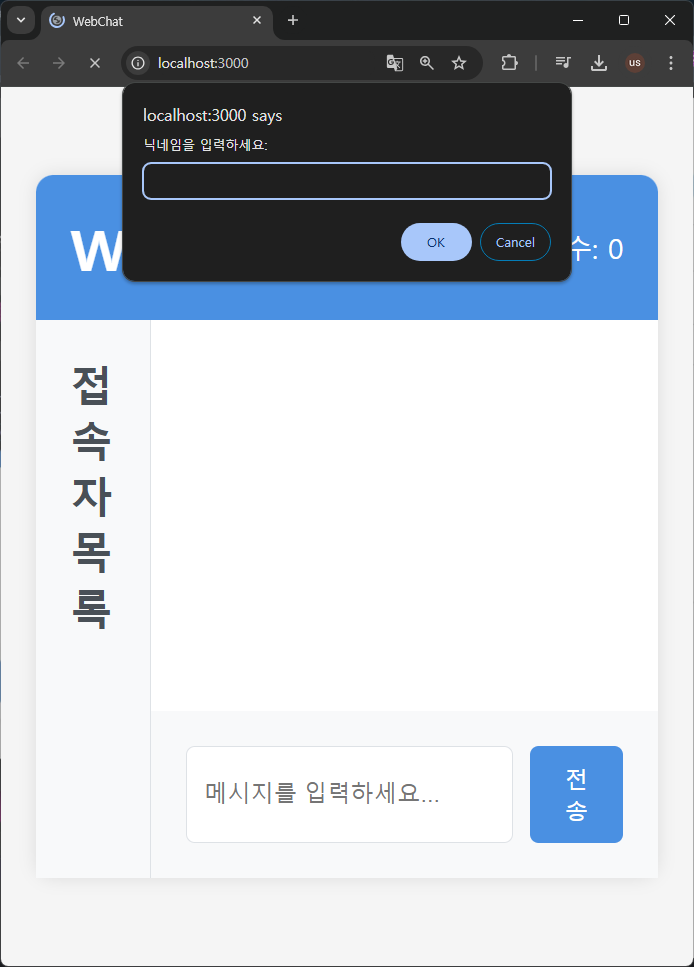
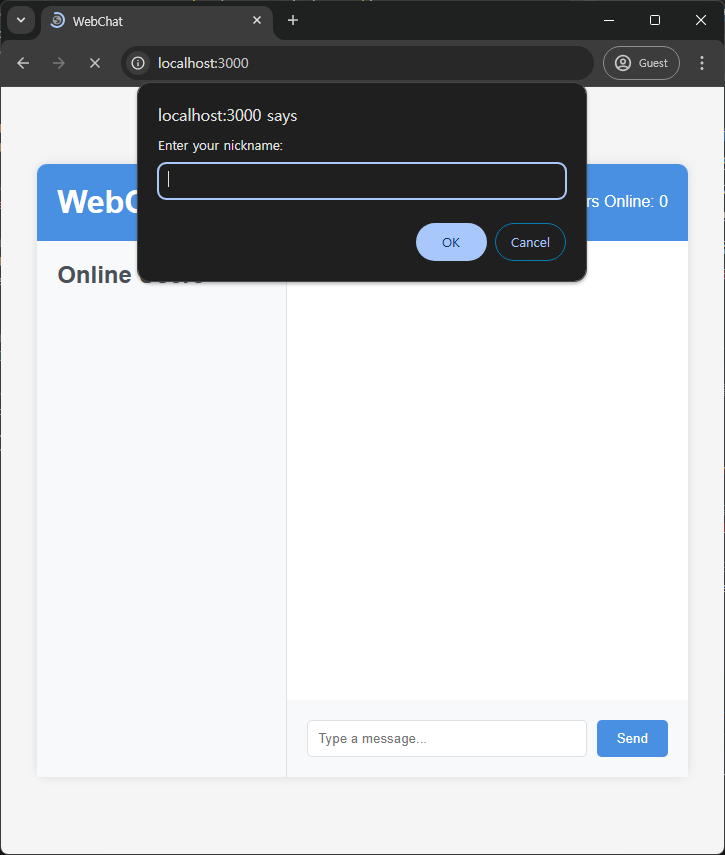
Refactor project files for internationalization: update comments and text in English, enhance .gitignore for clarity, and improve README.md with translated project details and features. Update main.eta layout for user interface consistency.

diff --git a/public/js/main.js b/public/js/main.js
@@ -1,24 +1,24 @@
 document.addEventListener('DOMContentLoaded', () => {
-    // Socket.IO 연결
+    // Socket.IO connection
     const socket = io();
 
-    // DOM 요소
+    // DOM elements
     const messageArea = document.getElementById('messageArea');
     const messageInput = document.getElementById('messageInput');
     const sendButton = document.getElementById('sendButton');
     const usersList = document.getElementById('usersList');
     const userCount = document.getElementById('userCount');
 
-    // 사용자 이름 입력
+    // Get username
     let username = null;
     while (!username) {
-        username = prompt('닉네임을 입력하세요:');
+        username = prompt('Enter your nickname:');
     }
 
-    // 서버에 접속 알림
+    // Notify server of user join
     socket.emit('user join', username);
 
-    // 메시지 전송 함수
+    // Message send function
     function sendMessage() {
         const message = messageInput.value.trim();
         if (message) {
@@ -31,7 +31,7 @@ document.addEventListener('DOMContentLoaded', () => {
         }
     }
 
-    // 이벤트 리스너
+    // Event listeners
     sendButton.addEventListener('click', sendMessage);
     messageInput.addEventListener('keypress', (e) => {
         if (e.key === 'Enter') {
@@ -39,7 +39,7 @@ document.addEventListener('DOMContentLoaded', () => {
         }
     });
 
-    // 메시지 수신 처리
+    // Message receive handler
     socket.on('chat message', (data) => {
         const messageElement = document.createElement('div');
         messageElement.className = `message ${data.username === username ? 'sent' : 'received'}`;
@@ -54,7 +54,7 @@ document.addEventListener('DOMContentLoaded', () => {
         messageArea.scrollTop = messageArea.scrollHeight;
     });
 
-    // 사용자 목록 업데이트
+    // Update user list
     socket.on('users update', (users) => {
         usersList.innerHTML = '';
         users.forEach(user => {
@@ -65,7 +65,7 @@ document.addEventListener('DOMContentLoaded', () => {
         userCount.textContent = users.length;
     });
 
-    // 시스템 메시지 처리
+    // System message handler
     socket.on('system message', (message) => {
         const messageElement = document.createElement('div');
         messageElement.className = 'message system';

diff --git a/server/socket.js b/server/socket.js
@@ -4,28 +4,28 @@ function initializeSocket(io) {
     io.on('connection', (socket) => {
         let username = null;
 
-        // 사용자 입장
+        // User join
         socket.on('user join', (name) => {
             username = name;
             users.add(username);
             
-            // 시스템 메시지 전송
-            io.emit('system message', `${username}님이 입장하셨습니다.`);
+            // Send system message
+            io.emit('system message', `${username} has joined the chat.`);
             
-            // 사용자 목록 업데이트
+            // Update user list
             io.emit('users update', Array.from(users));
         });
 
-        // 채팅 메시지 처리
+        // Handle chat message
         socket.on('chat message', (data) => {
             io.emit('chat message', data);
         });
 
-        // 연결 종료 처리
+        // Handle disconnection
         socket.on('disconnect', () => {
             if (username) {
                 users.delete(username);
-                io.emit('system message', `${username}님이 퇴장하셨습니다.`);
+                io.emit('system message', `${username} has left the chat.`);
                 io.emit('users update', Array.from(users));
             }
         });

diff --git a/app.js b/app.js
@@ -9,7 +9,7 @@ const app = express();
 const server = http.createServer(app);
 const io = new Server(server);
 
-// Eta 템플릿 엔진 설정
+// Eta template engine configuration
 const viewsPath = path.join(__dirname, 'views');
 const eta = new Eta({
     views: viewsPath,
@@ -31,18 +31,18 @@ app.engine('eta', (filePath, options, callback) => {
 app.set('view engine', 'eta');
 app.set('views', viewsPath);
 
-// 정적 파일 제공
+// Serve static files
 app.use(express.static(path.join(__dirname, 'public')));
 
-// 라우트 설정
+// Route configuration
 app.get('/', (req, res) => {
     res.render('layouts/main');
 });
 
-// Socket.IO 초기화
+// Initialize Socket.IO
 initializeSocket(io);
 
-// 서버 시작
+// Start server
 const PORT = process.env.PORT || 3000;
 server.listen(PORT, () => {
     console.log(`http://localhost:${PORT}`);
